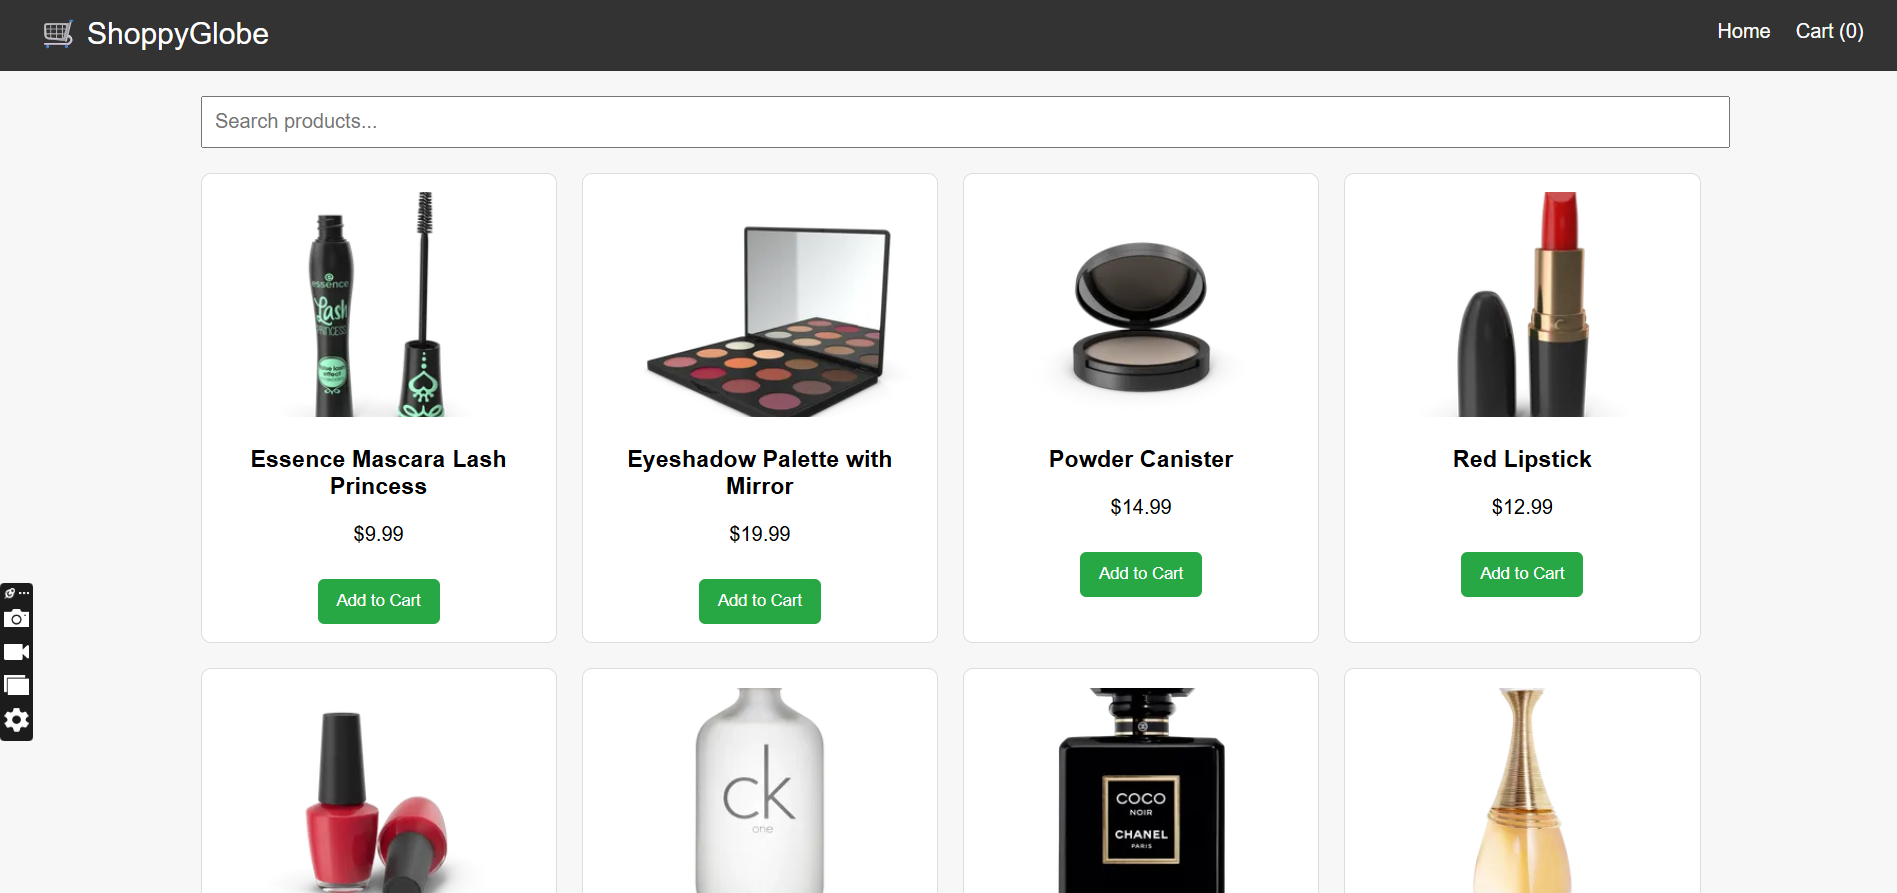
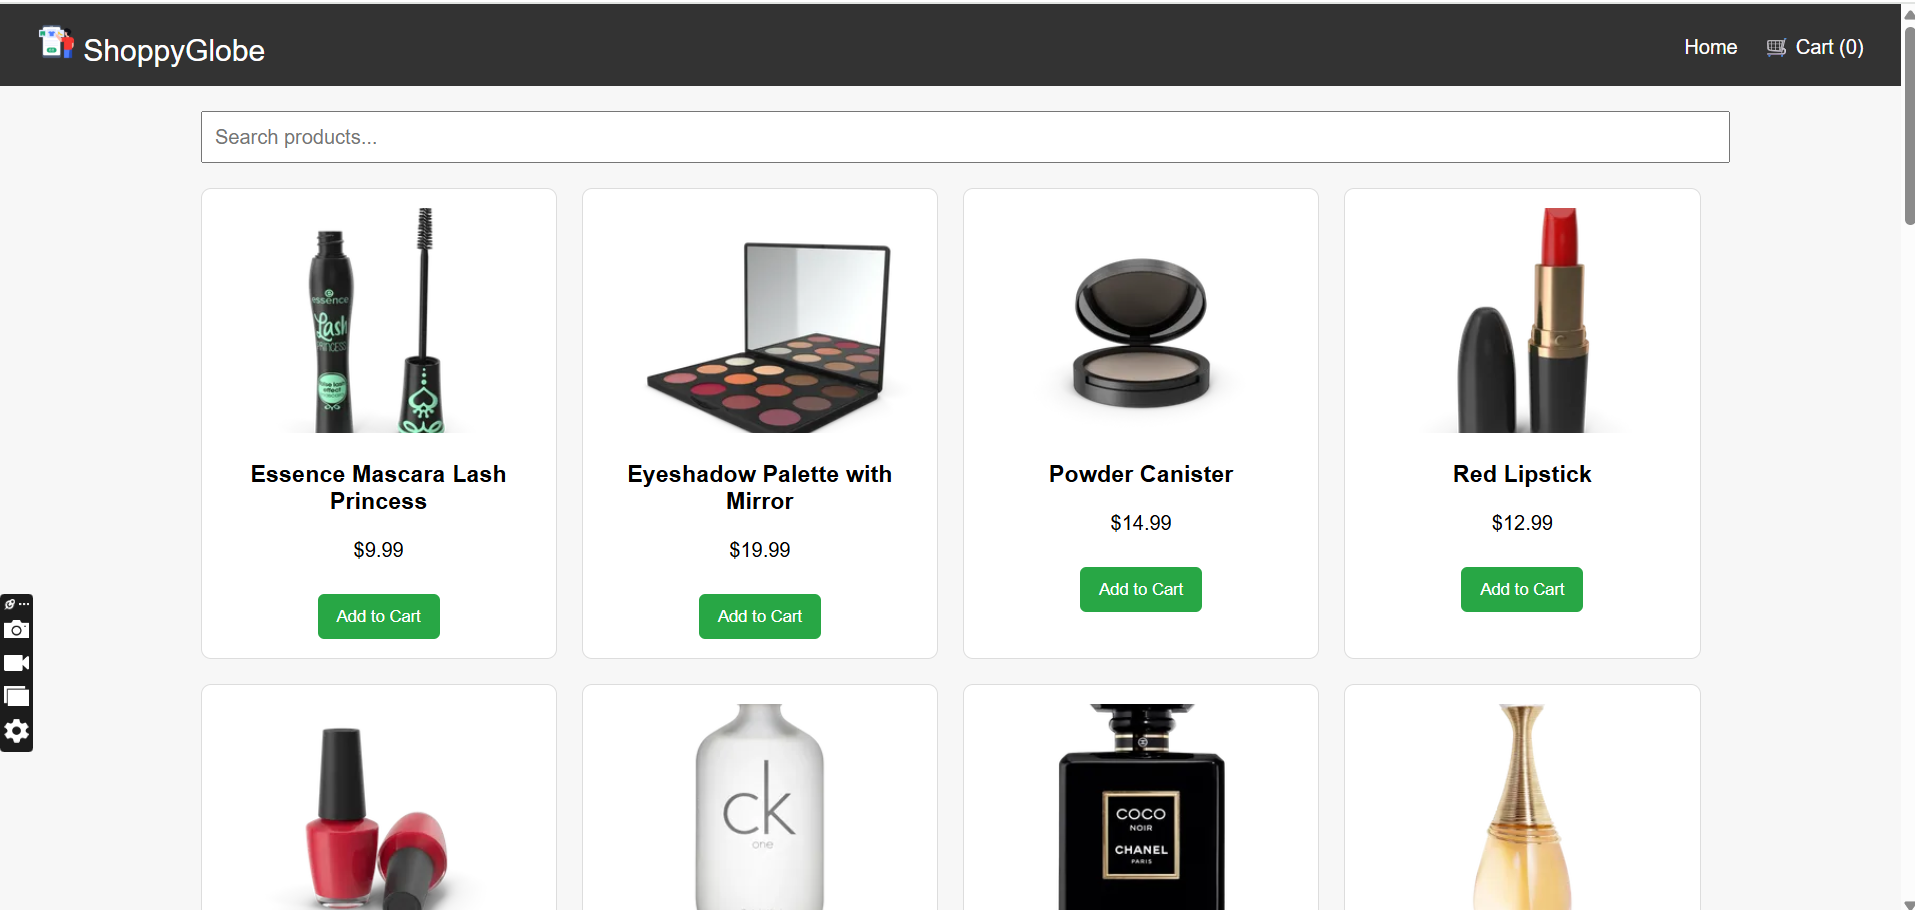
update readme.md file

diff --git a/src/components/Header.jsx b/src/components/Header.jsx
@@ -9,7 +9,7 @@ const Header = () => {
 
   return (
     <header className="header">
-      <div className="logo"><img src="./public/images/image1.png" alt="header_image" height={'50px'} width={'50px'}/> ShoppyGlobe</div>
+      <div className="logo"><img src="./images/image1.png" alt="header_image" height={'30px'} width={'30px'}/> ShoppyGlobe</div>
       <nav>
         <Link to="/">Home</Link>
         <Link to="/cart">🛒 Cart ({cartCount})</Link>

diff --git a/README.md b/README.md
@@ -20,12 +20,21 @@ ShoppyGlobe is a simple e-commerce application built with **React**, **Redux**, 
 ## 📁 Folder Structure
 
 src/
-├── components/ # UI Components
-├── redux/ # Redux store and slice
-├── hooks/ # Custom hooks
-├── App.jsx # Main App component
-├── main.jsx # Entry point
-├── index.css # Global styles
+├── components/
+│   ├── Cart.jsx             # Displays items added to the cart with remove/total functionality <br/>
+│   ├── CartItem.jsx         # Represents individual item in the cart  <br/>
+│   ├── Header.jsx           # Navigation bar with links (Home, Cart, etc.)   <br/>
+│   ├── NotFound.jsx         # 404 Page displayed for undefined routes.   <br/>
+│   ├── ProductDetail.jsx    # Shows detailed info of a selected product.  <br/>
+│   ├── ProductItem.jsx      # UI for a single product item in the list. <br/>
+│   └── ProductList.jsx      # Renders the list of products fetched from API. <br/>
+│
+├── hooks/
+│   └── useFetchProducts.js  # Custom hook to fetch products from dummyjson.com API <br/>
+│
+├── redux/
+│   ├── cartSlice.js         # Redux slice for managing cart state (add/remove/total) <br/>
+│   └── store.js             # Configures Redux store and combines slices <br/>
 
 ---
 
@@ -43,7 +52,7 @@ src/
 
 
 # Clone the repository
-git clone https://github.com/your-username/shoppyglobe.git
+git clone https://github.com/Arti2510/shoppy_globe_project.git
 
 # Navigate into the folder
 cd shoppyglobe
